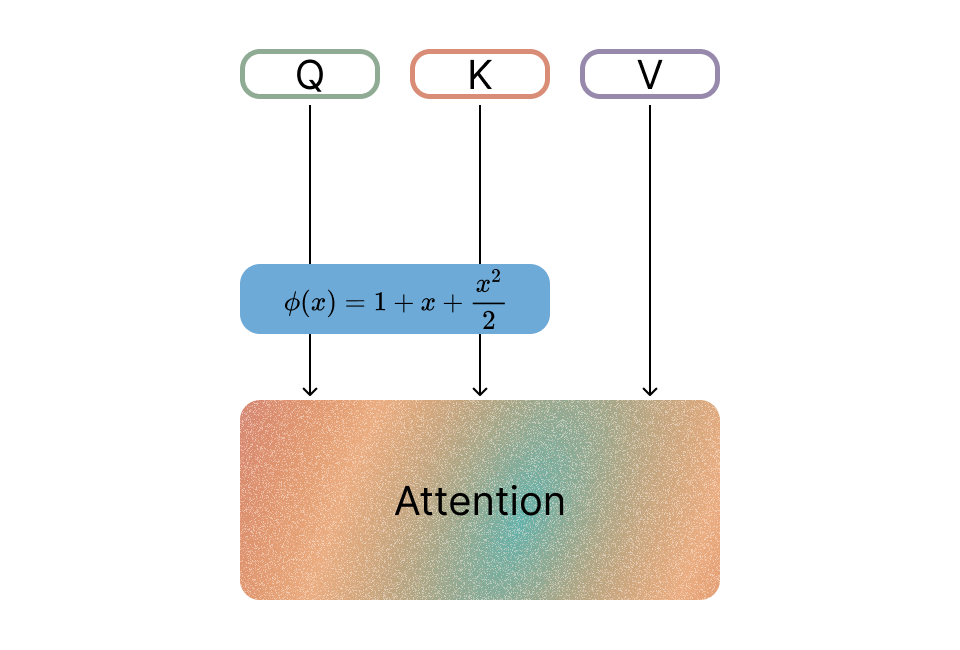
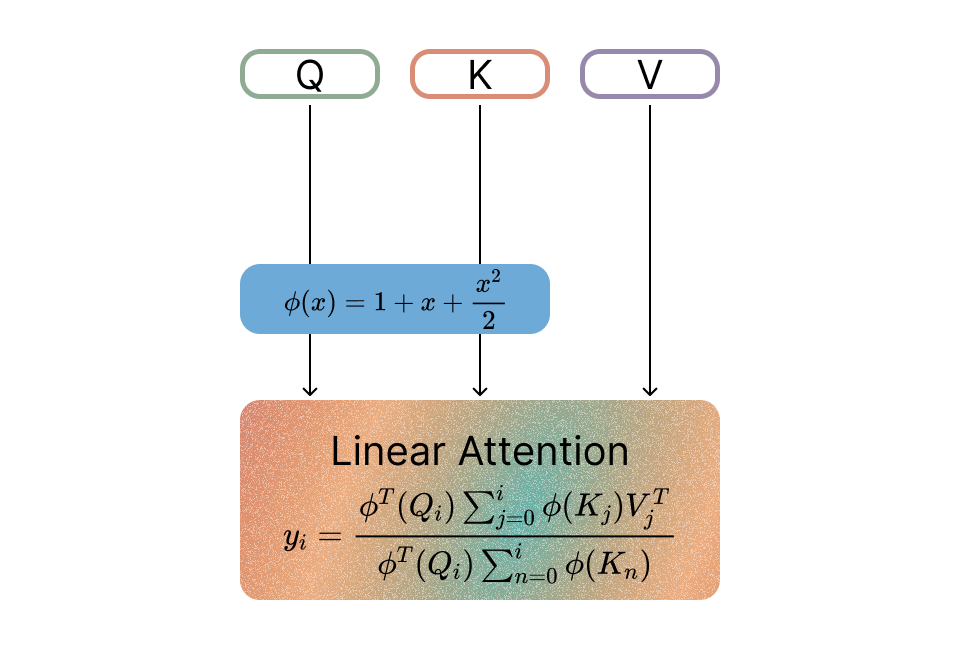
add citation and update figures

Changed region(s): [[0.3438, 0.6769, 0.6875, 0.8923], [0.2812, 0.8, 0.3125, 0.8615]]

diff --git a/README.md b/README.md
@@ -33,6 +33,18 @@ When the sweep is finished, run all the commands in [Jupyter notebook](main_fig_
 
 
 ## Citation
+
+```bib
+@article{rebased,
+      title={Linear Transformers with Learnable Kernel Functions are Better In-Context Models}, 
+      author={Yaroslav Aksenov and Nikita Balagansky and Sofia Maria Lo Cicero Vaina and Boris Shaposhnikov and Alexey Gorbatovski and Daniil Gavrilov},
+      year={2024},
+      eprint={2402.10644},
+      archivePrefix={arXiv},
+      primaryClass={cs.LG}
+}
+```
+
 This repo was developed on top of Zoology and FLA Triton kernels. Cite them too:
 ```bib
 @article{zoology2023,
